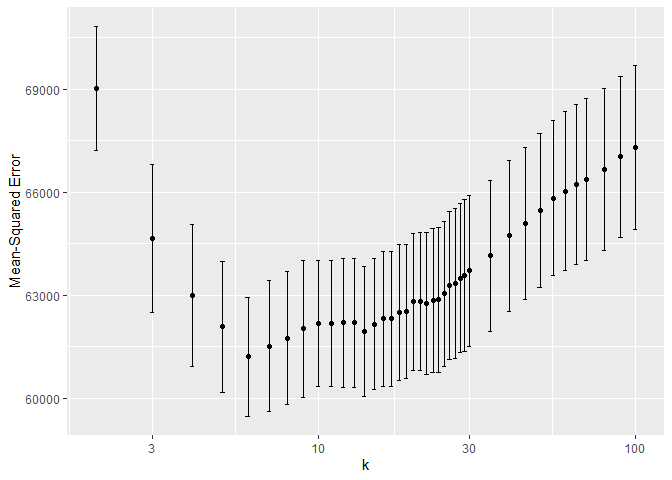
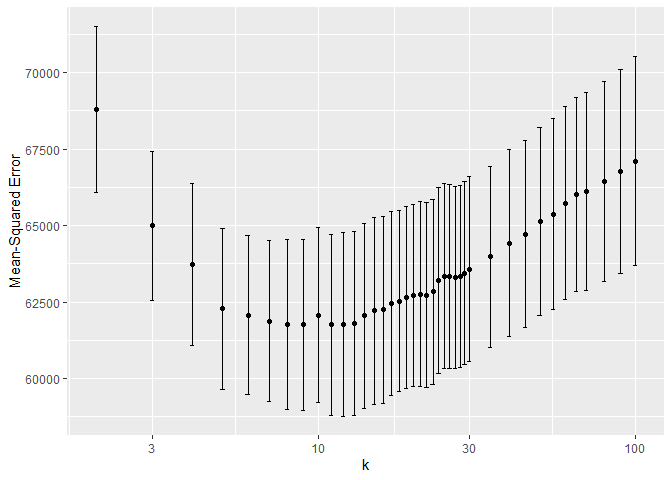
spacing

diff --git a/Collaborative/Homework2.md b/Collaborative/Homework2.md
@@ -2,6 +2,17 @@
 
 ![](Homework2_files/figure-markdown_strict/unnamed-chunk-2-1.png)
 
+“The charts generally show that weekdays follow the same pattern of
+growing boardings throughout the day until a peak around rush hour. The
+hour of peak boarding tends to stay the same for weekdays, coming in the
+evening rush hour. However, weekends have a very different ridership
+profile that is pretty much flat throughout the day. We see that on
+Mondays in September, ridership is lower, this could stem from Labor Day
+skewing our average ridership on Mondays in September. Similarly, we
+also see that later week ridership is lower in November, which could
+stem from Thanksgiving Break being on Wednesday, Thursday, and Friday in
+November.”
+
 ![](Homework2_files/figure-markdown_strict/unnamed-chunk-3-1.png)
 
 ## Problem 2
@@ -26,7 +37,7 @@ the data set in a linear regression. It includes the variables lot size,
 age, living area, bedrooms, fireplaces, bathrooms, rooms, heating
 method, fuel method, and central air. This model performed consistently
 the worst. In this iteration, for example, it achieved an average
-out-of-sample mean-squared error of 66278.
+out-of-sample mean-squared error of 66294.
 
 This is to be expected. Economic intuition indicates that we are likely
 omitting important considerations for house prices, notably land value,
@@ -34,7 +45,7 @@ waterfront access and whether or not it is a new construction. We add
 these to our linear model to improve it, as well as an interaction term
 for lot size and waterfront access.<sup>2</sup> Indeed, we see
 significant improvement in the RMSE. In this iteration, we see a
-mean-squared error of 58296.
+mean-squared error of 58666.
 
 Finally, we attempt to create a KNN model. To begin, we include all
 possible covariates and attempt to identify the value of K neighbors
@@ -43,7 +54,7 @@ the error on the vertical access and the value of K on the horizontal.
 
 ![](Homework2_files/figure-markdown_strict/unnamed-chunk-5-1.png)
 
-The minimum RMSE<sup>3</sup> can be found at k=6 with a RMSE of 61219.
+The minimum RMSE<sup>3</sup> can be found at k=9 with a RMSE of 61758.
 Consistently, across many iterations of train/test splits, the KNN model
 had lower mean-squared errors than our baseline medium model but failed
 to beat the better linear model. It appears that the data available to
@@ -71,6 +82,7 @@ could be argued for in this context.
 ## Problem 3
 
 ![](Homework2_files/figure-markdown_strict/unnamed-chunk-6-1.png)
+
 Looking at the bar plot of default probability, we see that the highest
 risk of default falls with those who have “good” credit histories. This
 is a surprise. We would expect that those with good credit history would
@@ -106,6 +118,7 @@ variables in our dataset excluding the arrival date. To generate the
 best possible linear model we utilize the lasso model on all variables
 and interactions. To measure the out of sample performance of our lasso
 model, we use the RMSE. For the small, large and lasso models the RMSE’s
-are 0,0,0 respectively. We can see that the lasso model beats the two
-other models.
+are 0.2672,0.2413,0.2264 respectively. We can see that the lasso model
+beats the two other models.
+
 ![](Homework2_files/figure-markdown_strict/unnamed-chunk-8-1.png)![](Homework2_files/figure-markdown_strict/unnamed-chunk-8-2.png)
